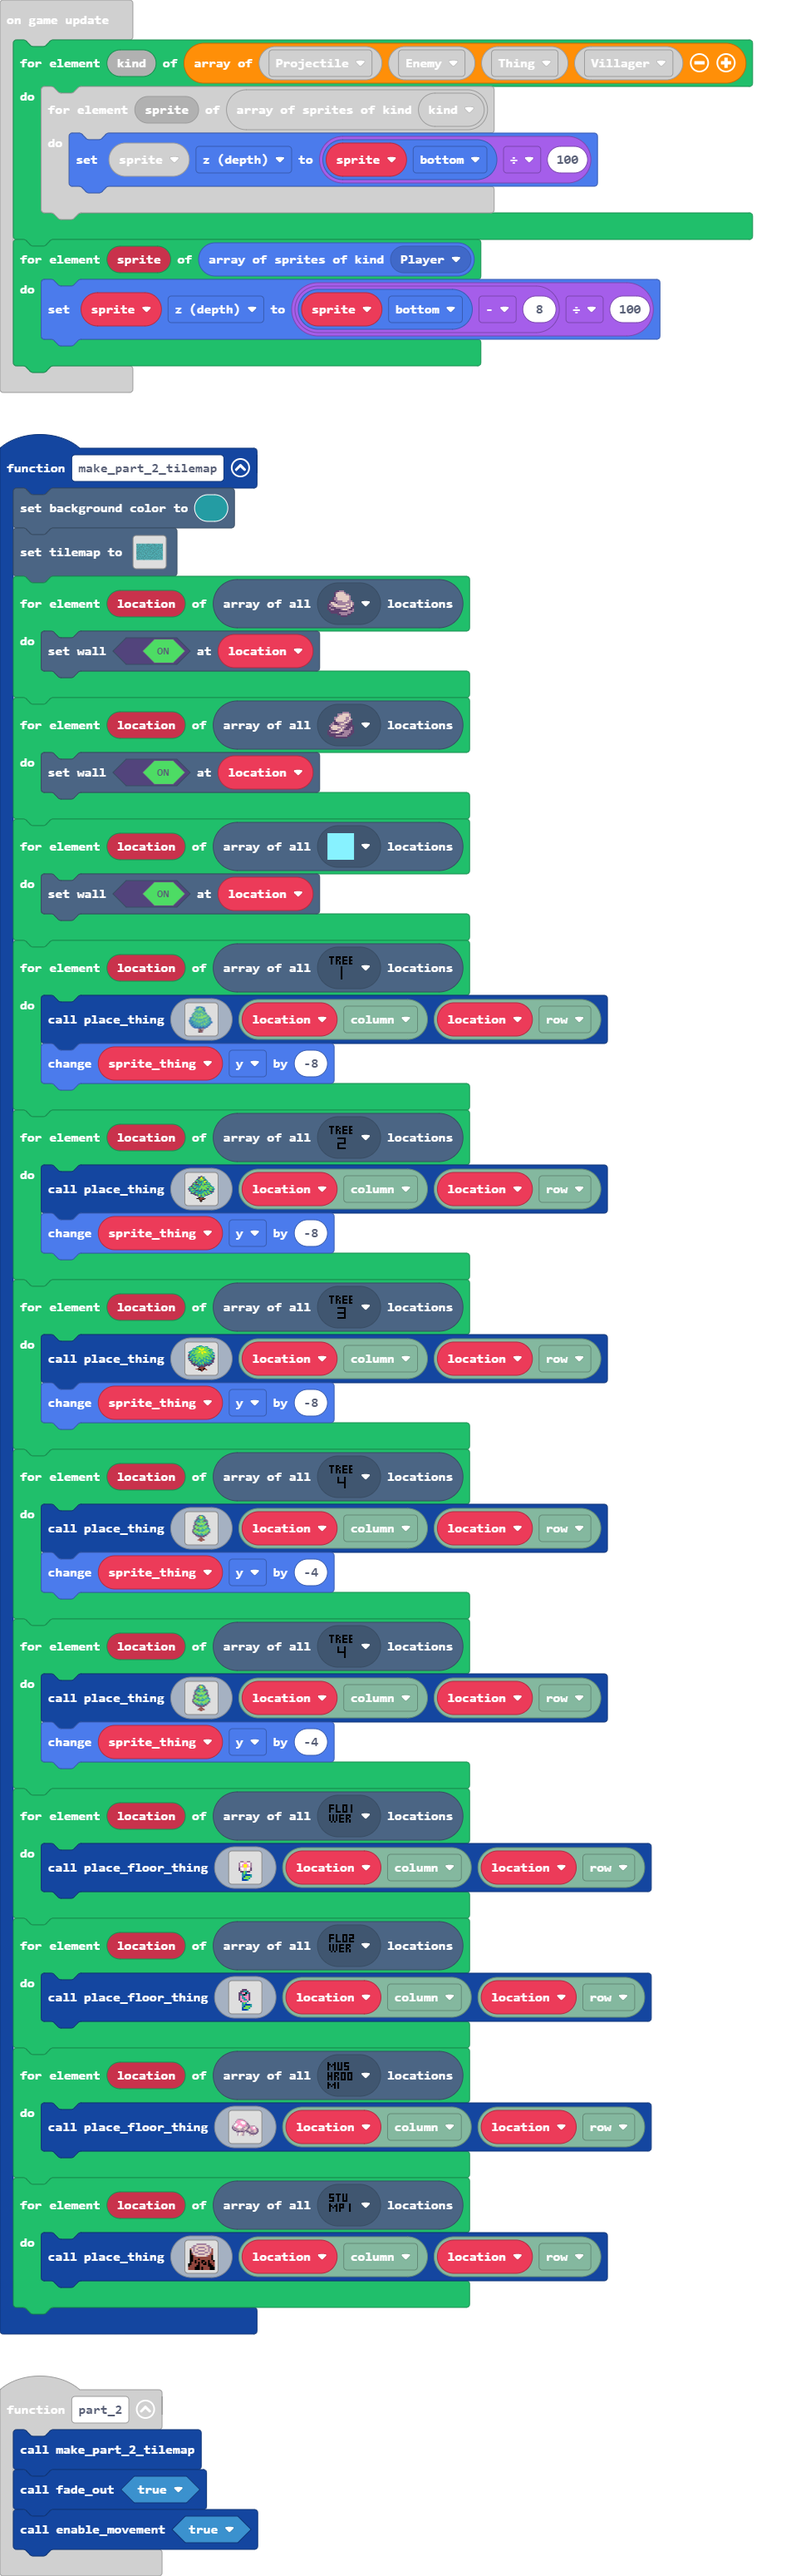
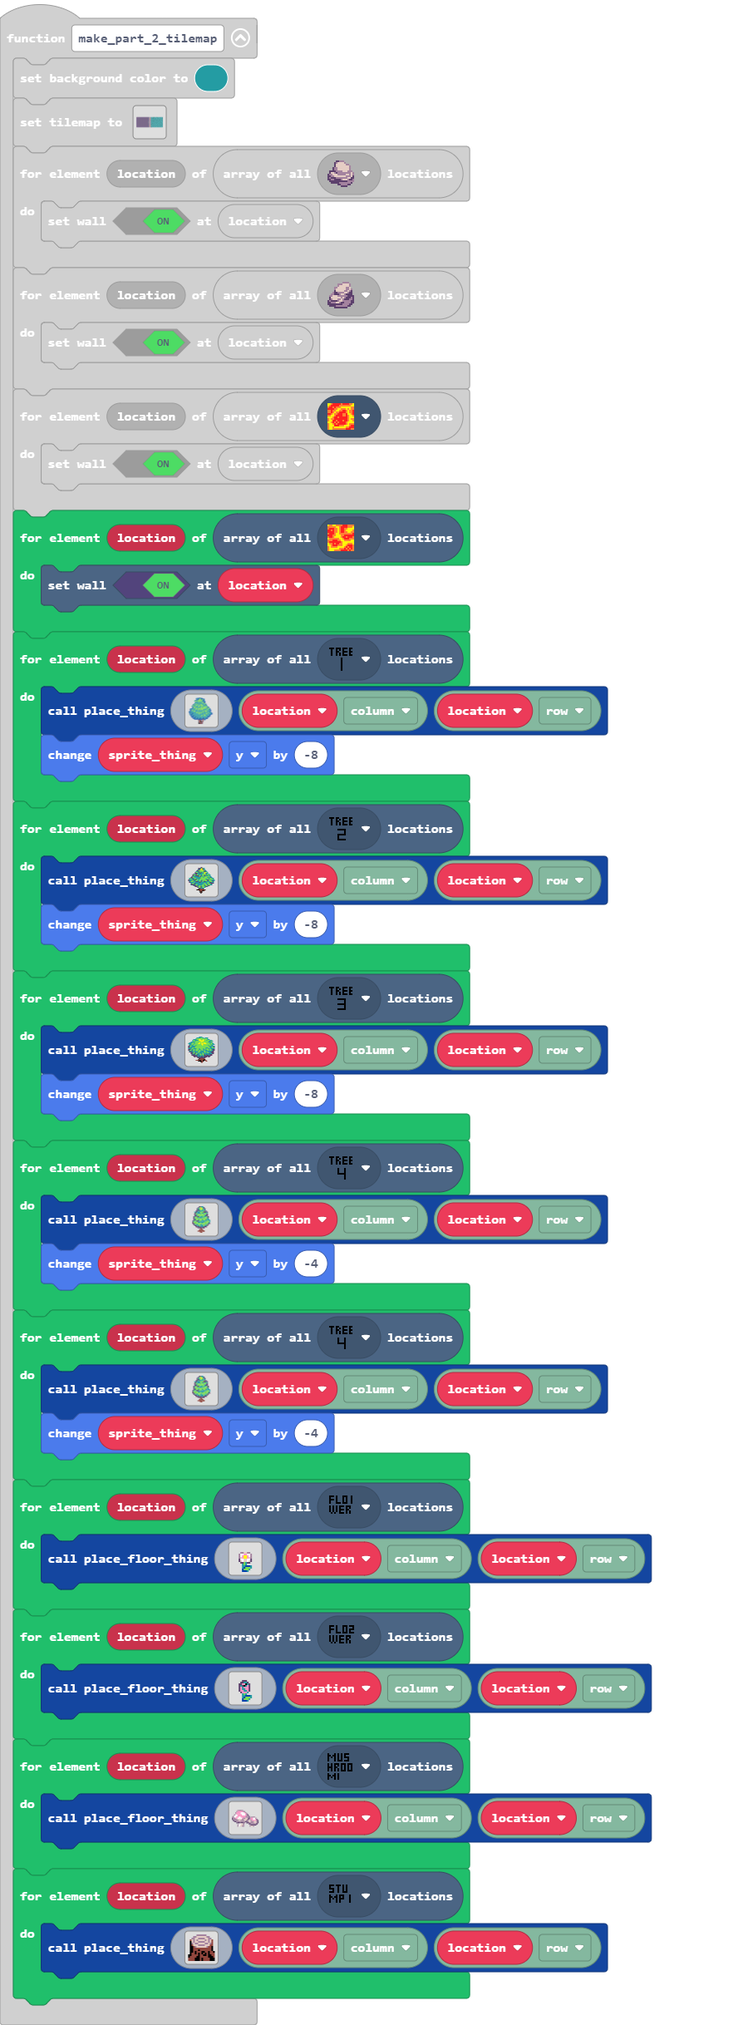
Keep updating level 2 tilemap

diff --git a/tilemap.g.ts b/tilemap.g.ts
@@ -90,38 +90,38 @@ namespace myTiles {
 . . . . . . . . . . . . . . . . 
 `, [myTiles.transparency16], TileScale.Sixteen);
             case "level_2":
[2 lines of base64/hex data omitted]
+......................................2.........................................
+......................................2.........................................
+......................................2.........................................
+......................................2.........................................
+......................................2.........................................
+......................................2.........................................
+......................................2.........................................
+......................................2.........................................
+......................................2.........................................
+......................................2.........................................
+......................................2.........................................
+......................................2.........................................
+......................................2.........................................
+...................................2222.........................................
 ................................................................................
 ................................................................................
 ................................................................................
-................................................................................
-................................................................................
-................................................................................
-................................................................................
-................................................................................
-................................................................................
-................................................................................
-................................................................................
-................................................................................
-................................................................................
-................................................................................
-................................................................................
-................................................................................
-................................................................................
-................................................................................
-................................................................................
-................................................................................
-................................................................................
-................................................................................
-................................................................................
-................................................................................
-................................................................................
-................................................................................
-................................................................................
-................................................................................
-................................................................................
-................................................................................
-`, [myTiles.transparency16,myTiles.tile2,myTiles.tile3,myTiles.tile9,myTiles.tile10,myTiles.tile13,sprites.castle.tileDarkGrass3,sprites.castle.tileDarkGrass2,myTiles.tile5,myTiles.tile6,myTiles.tile7,myTiles.tile8,sprites.castle.tileDarkGrass1,sprites.dungeon.darkGroundNorth,sprites.dungeon.darkGroundSouth,sprites.dungeon.darkGroundCenter,sprites.dungeon.greenOuterNorth1,sprites.dungeon.greenOuterSouth1,sprites.dungeon.greenOuterSouth0,sprites.dungeon.greenOuterNorth2,sprites.dungeon.greenOuterSouth2,sprites.dungeon.stairWest,sprites.dungeon.greenInnerSouthEast,sprites.dungeon.greenInnerNorthEast,sprites.dungeon.greenOuterWest1,sprites.dungeon.greenOuterWest0,sprites.dungeon.floorDark0,sprites.dungeon.floorDark1,sprites.dungeon.floorDark3,sprites.dungeon.floorDark4], TileScale.Sixteen);
+...................................2222.........................................
+......................................2.........................................
+......................................2.........................................
+......................................2.........................................
+......................................2.........................................
+......................................2.........................................
+......................................2.........................................
+......................................2.........................................
+......................................2.........................................
+......................................2.........................................
+......................................2.........................................
+......................................2.........................................
+......................................2.........................................
+`, [myTiles.transparency16,myTiles.tile2,myTiles.tile3,myTiles.tile9,myTiles.tile10,myTiles.tile13,sprites.castle.tileDarkGrass3,sprites.castle.tileDarkGrass2,myTiles.tile5,myTiles.tile6,myTiles.tile7,myTiles.tile8,sprites.castle.tileDarkGrass1,sprites.dungeon.darkGroundNorth,sprites.dungeon.darkGroundSouth,sprites.dungeon.darkGroundCenter,sprites.dungeon.greenOuterNorth1,sprites.dungeon.greenOuterSouth1,sprites.dungeon.greenOuterSouth0,sprites.dungeon.greenOuterNorth2,sprites.dungeon.greenOuterSouth2,sprites.dungeon.stairWest,sprites.dungeon.greenInnerSouthEast,sprites.dungeon.greenInnerNorthEast,sprites.dungeon.greenOuterWest1,sprites.dungeon.greenOuterWest0,sprites.dungeon.floorDark0,sprites.dungeon.floorDark1,sprites.dungeon.floorDark3,sprites.dungeon.floorDark4,sprites.dungeon.greenOuterWest2,sprites.dungeon.hazardLava0,sprites.dungeon.hazardLava1,sprites.dungeon.floorDark2,sprites.dungeon.floorDarkDiamond,sprites.dungeon.floorDark5], TileScale.Sixteen);
         }
         return null;
     })

diff --git a/main.ts b/main.ts
@@ -660,7 +660,10 @@ function make_part_2_tilemap () {
     for (let location of tiles.getTilesByType(sprites.castle.rock1)) {
         tiles.setWallAt(location, true)
     }
-    for (let location of tiles.getTilesByType(assets.tile`water`)) {
+    for (let location of tiles.getTilesByType(sprites.dungeon.hazardLava0)) {
+        tiles.setWallAt(location, true)
+    }
+    for (let location of tiles.getTilesByType(sprites.dungeon.hazardLava1)) {
         tiles.setWallAt(location, true)
     }
     for (let location of tiles.getTilesByType(assets.tile`tree_1`)) {
